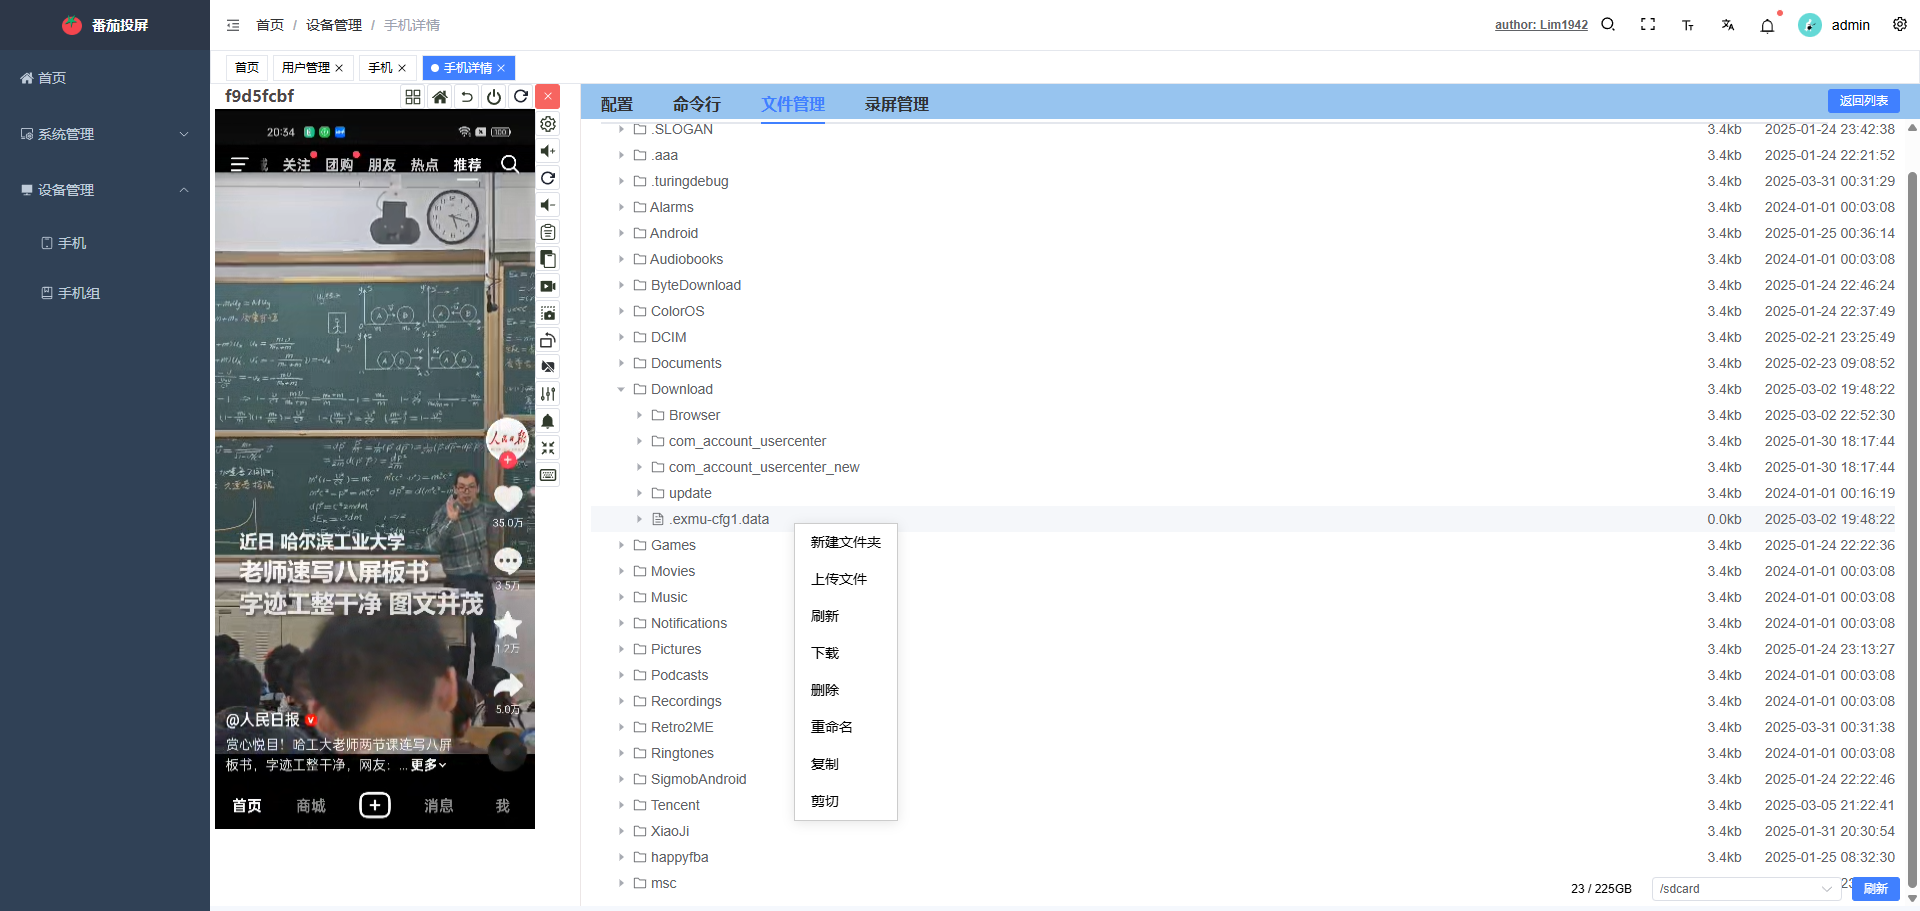
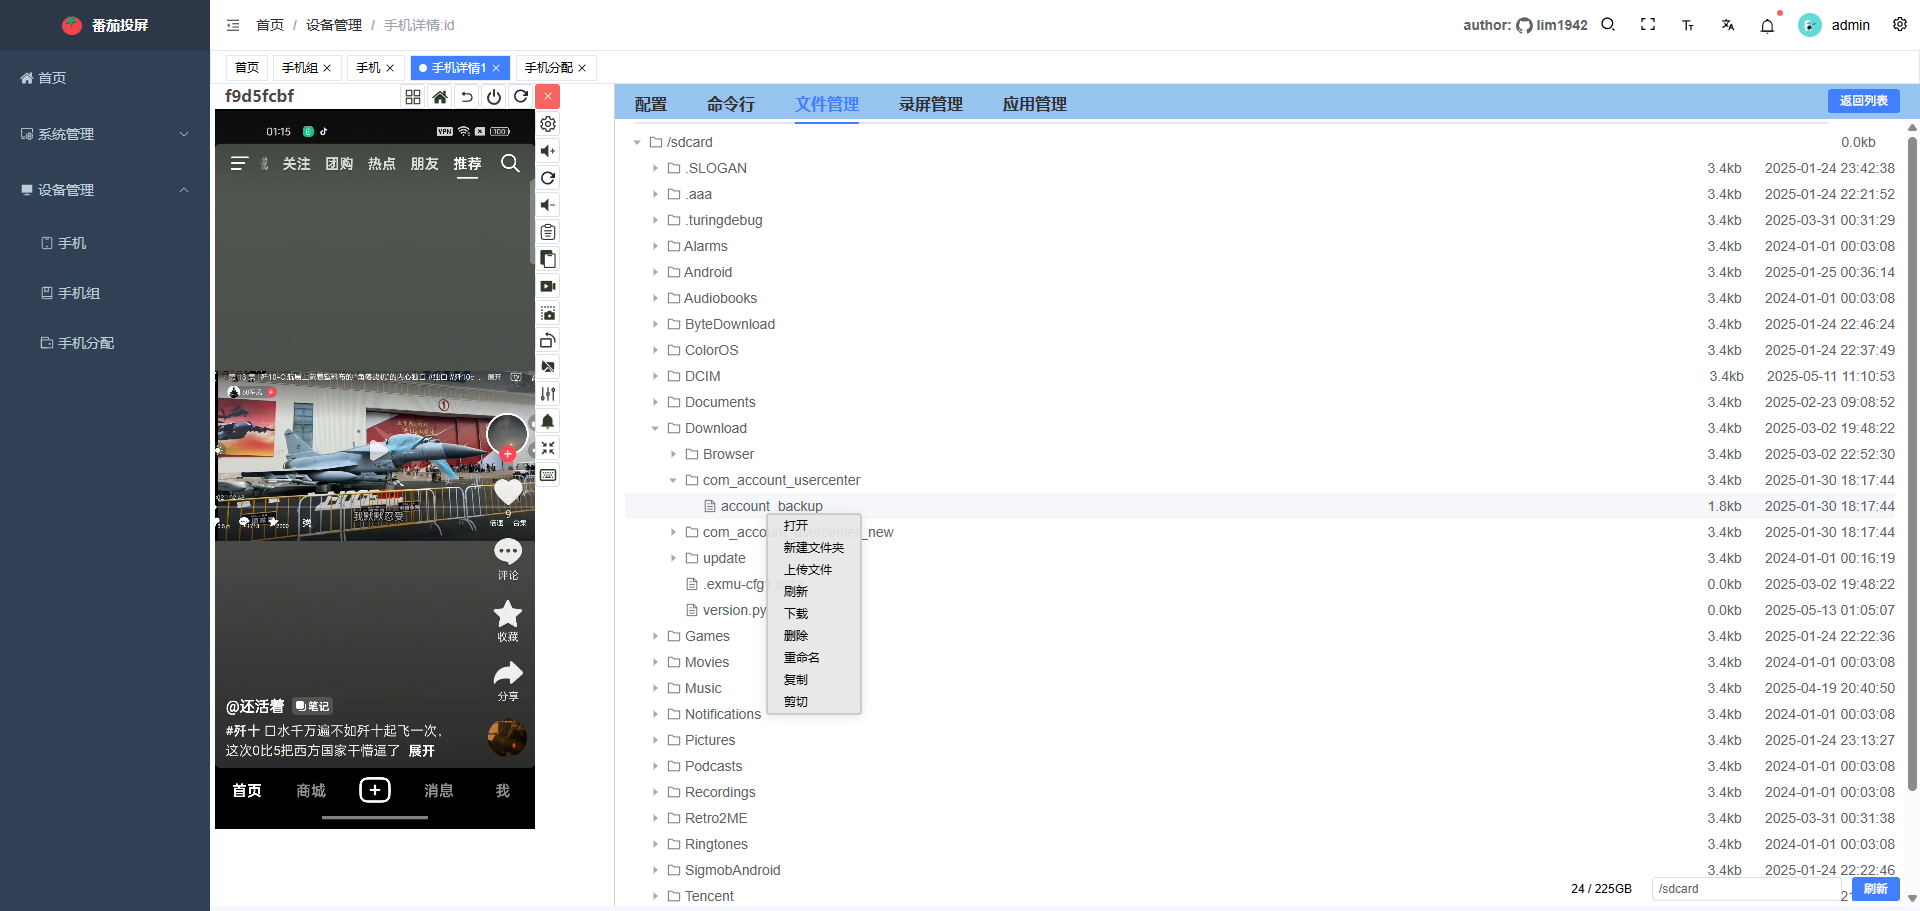
update

diff --git a/readme.md b/readme.md
@@ -4,48 +4,65 @@
 
   
 **实现浏览器控制安卓手机，投屏延迟低至30ms。基于scrcpy3.2，主要功能如下:**
-- 权限管理(可对指定用户分配设备)
-- 分组管理
+- 权限管理(基于角色权限控制：删除/增加/编辑/投屏/文件管理/shell/应用管理等权限)
+- 手机分配(限时：限定时间给用户分配手机，时间到期后收回分配)
+- 分组管理(不限时：手机分组管理,可指定分组的手机授予用户)
 - 列表投屏
 - 无线投屏
 - 摄像头投屏
 - 音频播放
 - shell命令行
 - 文件管理
+- 应用管理
 - 录屏播放
 - 键盘直连输入
 - 视频`码率/编码器/帧率/尺寸`调整
 - 音频`码率/编码器`调整
 - ...
 
-## 一.使用方法
->只支持windows
+## 一.下载
+>只支持windows  
+### 1.lite版本  
+下载：[番茄投屏lite](!https://github.com/lim1942/tomato-mirror/releases/download/v1.0.0/tomato_mirror_lite1.0.0.zip)
+### 2.pro版本
+敬请期待...
 
+## 二.使用方法
 1. 确保已经配置好adb和手机，adb devices能看到手机列表
-2. 下载解压软件，点击 `运行.cmd`后，谷歌浏览器访问 `http://127.0.0.1:8888/`
-3. 初次使用点击 `手机` >`发现` 按钮，将自动录入adb devices中的设备。
-4. 局域网/互联网无法投屏，请看下面[webcodecs](#%E4%B8%89webcodecs)的关闭浏览器安全限制。
+2. 下载解压软件，点击 `tomato_mirror.exe`后，谷歌浏览器访问 `http://127.0.0.1:8888/`
+
 ## 二.功能截图
 ### 1.登录页
 ![0](asset/0.png)
 ### 2.基础管理
 ![1](asset/1.png)
-### 3.投屏列表页
+![1](asset/1-1.png)
+### 3.视图列表页【pro版本】
 ![2](asset/2.png)
-### 4.列表页
+### 4.普通列表页
 ![3](asset/3.png)
 ### 5.详情页-配置
 ![4](asset/4.png)
 ![4](asset/4-1.png)
-### 6.详情页-命令行
+![4](asset/4-2.png)
+### 6.详情页-命令行【pro版本】
 ![5](asset/5.png)
-### 7.详情页-文件管理
+### 7.详情页-文件管理【pro版本】
 ![6](asset/6.png)
-### 8.详情页-录屏
+![6](asset/6-1.png)
+![6](asset/6-2.png)
+### 8.详情页-录屏管理【pro版本】
 ![7](asset/7.png)
 ![7](asset/7-1.png)
-### 10.手机分组管理
+### 9.详情页-应用管理【pro版本】
 ![8](asset/8.png)
+### 10.手机分组管理
+![9](asset/9.png)
+### 11.手机分配【pro版本】
+![10](asset/10.png)
+![10](asset/10-1.png)
+
+
 
 ## 三.webcodecs
 由于浏览器安全限制，VideoDecorder, AudioDecorder需要在https或者本地localhost访问才能使用。  
